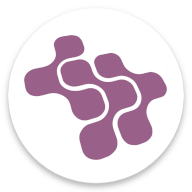
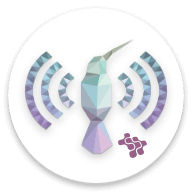
MSS (sub)-branding enhancements

Changed region(s): [[0.125, 0.1562, 0.875, 0.8438]]

diff --git a/assets/_load.html b/assets/_load.html
@@ -4,7 +4,7 @@
     <meta charset="utf-8">
     <meta name="viewport" content="width=device-width, initial-scale=1">
 
-    <title>MSS@Home - Kolibri is starting...</title>
+    <title>Kolibri - MSS@Home is starting...</title>
     <style>
       html, body {
         font-family: 'Noto Sans', sans-serif;
@@ -13,7 +13,7 @@
         background-color: white;
       }
       h1 {
-        font-size: 24px;
+        font-size: 22px;
       }
       p {
         font-size: 16px;
@@ -323,8 +323,8 @@
 
 
 
-      </g></svg><h1 class="header">Starting... </h1>
-      <p class="message" style="color:#6e4167">Please wait; this may take some time.</p>
+      </g></svg><h1 class="header">Starting Kolibri... </h1>
+      <p class="message" style="color:#6e4167">This may take some time.</p>
       <div class="loader"></div>
     </div>
   
